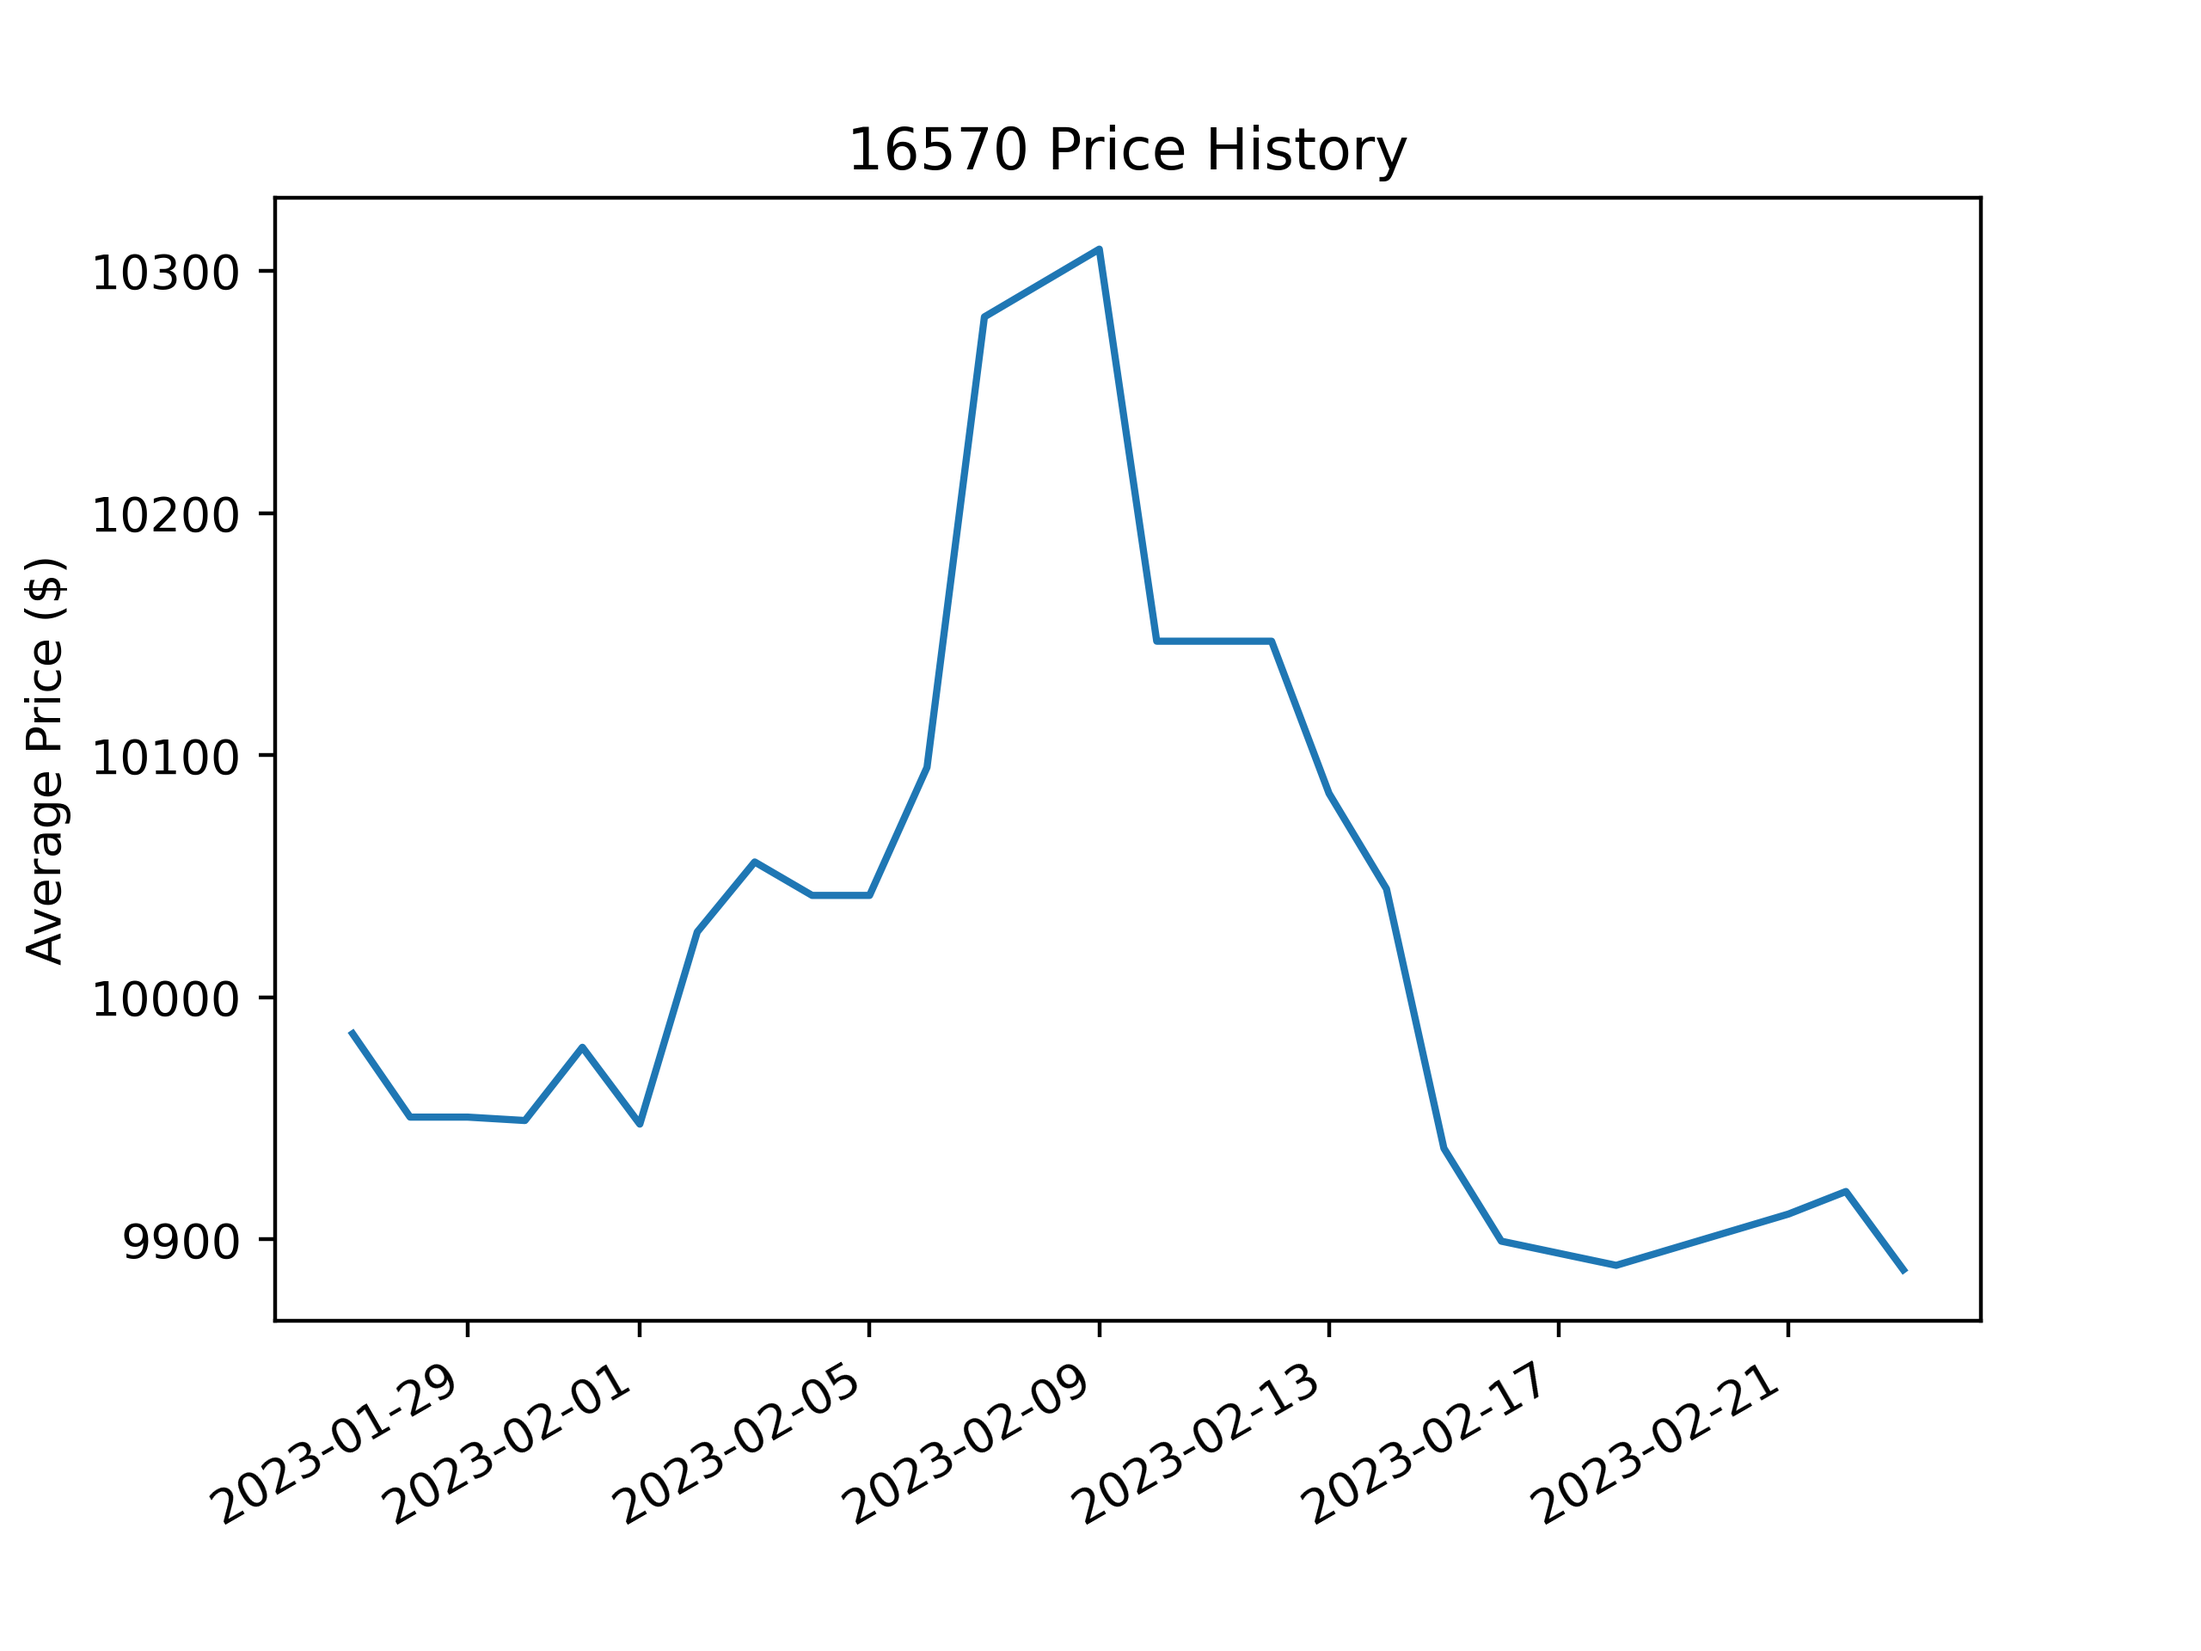
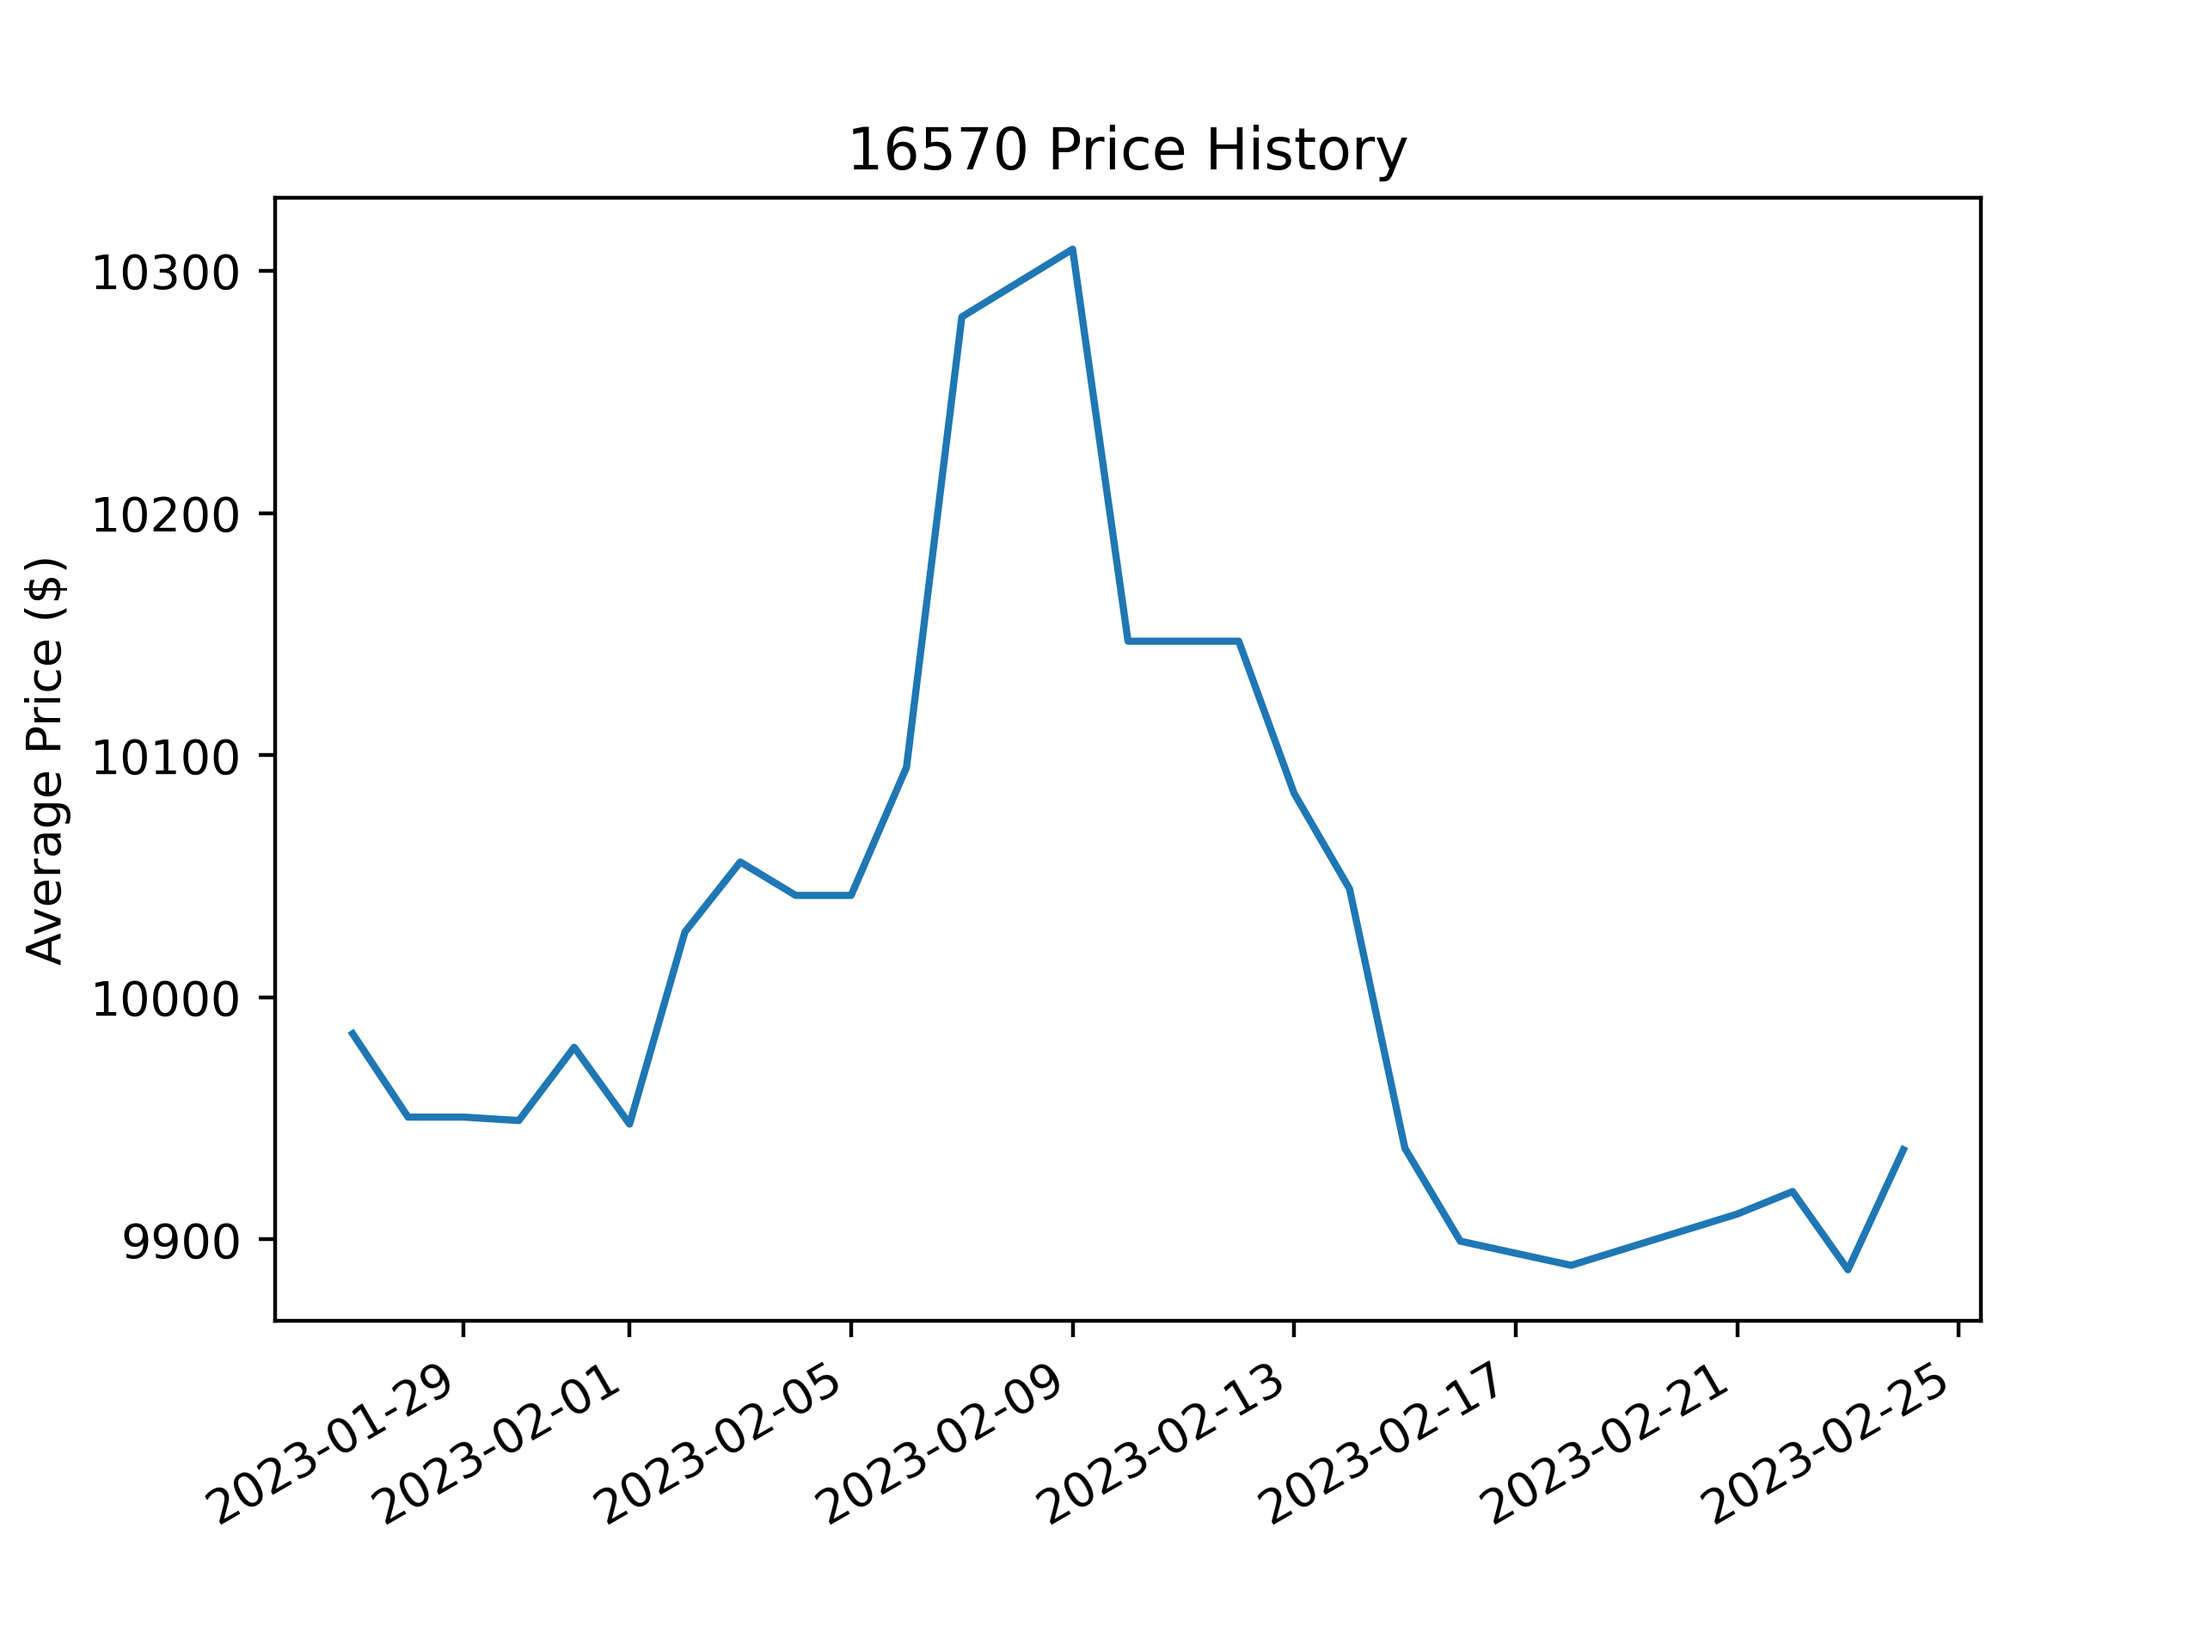
today's prices

diff --git a/all-prices/16570.html b/all-prices/16570.html
@@ -1,1 +1,1 @@
-<!DOCTYPE html><html><body><h1>All listings sorted in ascending order by price</h1><div> <a href="https://www.watchfinder.com/Rolex/Explorer II/16570/1780/item/234124" target="_blank" rel="noopener noreferrer">$8450</a> </div><div> <a href="https://www.watchfinder.com/Rolex/Explorer II/16570/1780/item/230008" target="_blank" rel="noopener noreferrer">$8765</a> </div><div> <a href="https://www.thewatchbox.com/shop/4657300.html" target="_blank" rel="noopener noreferrer">$8850</a> </div><div> <a href="https://www.watchfinder.com/Rolex/Explorer II/16570/1780/item/236074" target="_blank" rel="noopener noreferrer">$8885</a> </div><div> <a href="https://www.thewatchbox.com/shop/4777322.html" target="_blank" rel="noopener noreferrer">$8950</a> </div><div> <a href="https://www.crownandcaliber.com/products/rolex-explorer-ii-16570-10-10-rol-t6d7yb" target="_blank" rel="noopener noreferrer">$9000</a> </div><div> <a href="https://www.crownandcaliber.com/products/rolex-explorer-ii-16570-10-10-rol-mg7xp9" target="_blank" rel="noopener noreferrer">$9000</a> </div><div> <a href="https://www.watchfinder.com/Rolex/Explorer II/16570/1780/item/232242" target="_blank" rel="noopener noreferrer">$9050</a> </div><div> <a href="https://www.crownandcaliber.com/products/rolex-explorer-ii-16570-10-10-rol-ngl42x" target="_blank" rel="noopener noreferrer">$9150</a> </div><div> <a href="https://www.crownandcaliber.com/products/rolex-explorer-ii-16570-10-10-rol-rcg6ap" target="_blank" rel="noopener noreferrer">$9150</a> </div><div> <a href="https://www.thewatchbox.com/shop/4652947.html" target="_blank" rel="noopener noreferrer">$9450</a> </div><div> <a href="https://www.crownandcaliber.com/products/rolex-explorer-ii-16570-10-10-rol-5l72p9" target="_blank" rel="noopener noreferrer">$9550</a> </div><div> <a href="https://www.crownandcaliber.com/products/rolex-explorer-ii-16570-10-10-rol-xm8dgq" target="_blank" rel="noopener noreferrer">$9550</a> </div><div> <a href="https://www.crownandcaliber.com/products/rolex-explorer-ii-16570-10-10-rol-40mq2n" target="_blank" rel="noopener noreferrer">$9600</a> </div><div> <a href="https://aiswatches.com/rolex-polar-explorer-ii-16570-p-serial-white-dial-box-papers-rsc-serviced/" target="_blank" rel="noopener noreferrer">$9775.0</a> </div><div> <a href="https://aiswatches.com/rolex-polar-explorer-ii-16570-y-serial-white-dial-box-paper-1/" target="_blank" rel="noopener noreferrer">$9775.0</a> </div><div> <a href="https://www.watchfinder.com/Rolex/Explorer II/16570/1780/item/231382" target="_blank" rel="noopener noreferrer">$9830</a> </div><div> <a href="https://mandbwatches.com/product/rolex-explorer-ii-40mm-16570-stainless-steel-polar-white-dial-w-papers-unpolished/" target="_blank" rel="noopener noreferrer">$9950.0</a> </div><div> <a href="https://www.watchfinder.com/Rolex/Explorer II/16570/1780/item/233065" target="_blank" rel="noopener noreferrer">$10175</a> </div><div> <a href="https://www.watchfinder.com/Rolex/Explorer II/16570/1780/item/240103" target="_blank" rel="noopener noreferrer">$10310</a> </div><div> <a href="https://www.watchfinder.com/Rolex/Explorer II/16570/1780/item/230050" target="_blank" rel="noopener noreferrer">$10320</a> </div><div> <a href="https://www.watchfinder.com/Rolex/Explorer II/16570/1780/item/239520" target="_blank" rel="noopener noreferrer">$10660</a> </div><div> <a href="https://www.watchfinder.com/Rolex/Explorer II/16570/1780/item/216068" target="_blank" rel="noopener noreferrer">$10660</a> </div><div> <a href="https://www.watchfinder.com/Rolex/Explorer II/16570/1780/item/231123" target="_blank" rel="noopener noreferrer">$10690</a> </div><div> <a href="https://www.watchfinder.com/Rolex/Explorer II/16570/1780/item/229673" target="_blank" rel="noopener noreferrer">$10705</a> </div><div> <a href="https://www.watchfinder.com/Rolex/Explorer II/16570/1780/item/235967" target="_blank" rel="noopener noreferrer">$10855</a> </div><div> <a href="https://www.bobswatches.com//rolex-explorer-ii-16570-white-dial-watch.html" target="_blank" rel="noopener noreferrer">$10895</a> </div><div> <a href="https://aiswatches.com/rolex-polar-explorer-ii-16570-v-serial-white-dial-3186-movement-box-papers/" target="_blank" rel="noopener noreferrer">$10975.0</a> </div><div> <a href="https://aiswatches.com/rolex-polar-explorer-ii-16570-m-serial-white-dial-3186-movement-box-papers/" target="_blank" rel="noopener noreferrer">$10975.0</a> </div><div> <a href="https://davidsw.com/shop/watch/rolex/rolex-16570-explorer-ii-with-white-dial-86/" target="_blank" rel="noopener noreferrer">$12675.0</a> </div></body></html>
+<!DOCTYPE html><html><body><h1>All listings sorted in ascending order by price</h1><div> <a href="https://www.watchfinder.com/Rolex/Explorer II/16570/1780/item/230008" target="_blank" rel="noopener noreferrer">$8765</a> </div><div> <a href="https://www.thewatchbox.com/shop/4657300.html" target="_blank" rel="noopener noreferrer">$8850</a> </div><div> <a href="https://www.watchfinder.com/Rolex/Explorer II/16570/1780/item/236074" target="_blank" rel="noopener noreferrer">$8885</a> </div><div> <a href="https://www.thewatchbox.com/shop/4777322.html" target="_blank" rel="noopener noreferrer">$8950</a> </div><div> <a href="https://www.crownandcaliber.com/products/rolex-explorer-ii-16570-10-10-rol-t6d7yb" target="_blank" rel="noopener noreferrer">$9000</a> </div><div> <a href="https://www.crownandcaliber.com/products/rolex-explorer-ii-16570-10-10-rol-mg7xp9" target="_blank" rel="noopener noreferrer">$9000</a> </div><div> <a href="https://www.watchfinder.com/Rolex/Explorer II/16570/1780/item/232242" target="_blank" rel="noopener noreferrer">$9050</a> </div><div> <a href="https://www.crownandcaliber.com/products/rolex-explorer-ii-16570-10-10-rol-ngl42x" target="_blank" rel="noopener noreferrer">$9150</a> </div><div> <a href="https://www.crownandcaliber.com/products/rolex-explorer-ii-16570-10-10-rol-rcg6ap" target="_blank" rel="noopener noreferrer">$9150</a> </div><div> <a href="https://www.thewatchbox.com/shop/4652947.html" target="_blank" rel="noopener noreferrer">$9450</a> </div><div> <a href="https://www.crownandcaliber.com/products/rolex-explorer-ii-16570-10-10-rol-5l72p9" target="_blank" rel="noopener noreferrer">$9550</a> </div><div> <a href="https://www.crownandcaliber.com/products/rolex-explorer-ii-16570-10-10-rol-xm8dgq" target="_blank" rel="noopener noreferrer">$9550</a> </div><div> <a href="https://www.crownandcaliber.com/products/rolex-explorer-ii-16570-10-10-rol-40mq2n" target="_blank" rel="noopener noreferrer">$9600</a> </div><div> <a href="https://aiswatches.com/rolex-polar-explorer-ii-16570-p-serial-white-dial-box-papers-rsc-serviced/" target="_blank" rel="noopener noreferrer">$9775.0</a> </div><div> <a href="https://aiswatches.com/rolex-polar-explorer-ii-16570-y-serial-white-dial-box-paper-1/" target="_blank" rel="noopener noreferrer">$9775.0</a> </div><div> <a href="https://www.watchfinder.com/Rolex/Explorer II/16570/1780/item/231382" target="_blank" rel="noopener noreferrer">$9830</a> </div><div> <a href="https://mandbwatches.com/product/rolex-explorer-ii-40mm-16570-stainless-steel-polar-white-dial-w-papers-unpolished/" target="_blank" rel="noopener noreferrer">$9950.0</a> </div><div> <a href="https://www.watchfinder.com/Rolex/Explorer II/16570/1780/item/233065" target="_blank" rel="noopener noreferrer">$10175</a> </div><div> <a href="https://www.watchfinder.com/Rolex/Explorer II/16570/1780/item/240103" target="_blank" rel="noopener noreferrer">$10310</a> </div><div> <a href="https://www.watchfinder.com/Rolex/Explorer II/16570/1780/item/230050" target="_blank" rel="noopener noreferrer">$10320</a> </div><div> <a href="https://www.watchfinder.com/Rolex/Explorer II/16570/1780/item/239520" target="_blank" rel="noopener noreferrer">$10660</a> </div><div> <a href="https://www.watchfinder.com/Rolex/Explorer II/16570/1780/item/216068" target="_blank" rel="noopener noreferrer">$10660</a> </div><div> <a href="https://www.watchfinder.com/Rolex/Explorer II/16570/1780/item/231123" target="_blank" rel="noopener noreferrer">$10690</a> </div><div> <a href="https://www.watchfinder.com/Rolex/Explorer II/16570/1780/item/229673" target="_blank" rel="noopener noreferrer">$10705</a> </div><div> <a href="https://www.watchfinder.com/Rolex/Explorer II/16570/1780/item/235967" target="_blank" rel="noopener noreferrer">$10855</a> </div><div> <a href="https://www.bobswatches.com//rolex-explorer-ii-16570-white-dial-watch.html" target="_blank" rel="noopener noreferrer">$10895</a> </div><div> <a href="https://aiswatches.com/rolex-polar-explorer-ii-16570-v-serial-white-dial-3186-movement-box-papers/" target="_blank" rel="noopener noreferrer">$10975.0</a> </div><div> <a href="https://aiswatches.com/rolex-polar-explorer-ii-16570-m-serial-white-dial-3186-movement-box-papers/" target="_blank" rel="noopener noreferrer">$10975.0</a> </div><div> <a href="https://davidsw.com/shop/watch/rolex/rolex-16570-explorer-ii-with-white-dial-86/" target="_blank" rel="noopener noreferrer">$12675.0</a> </div></body></html>
